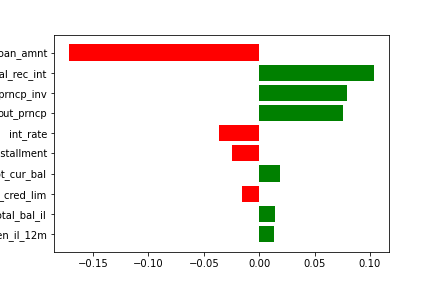
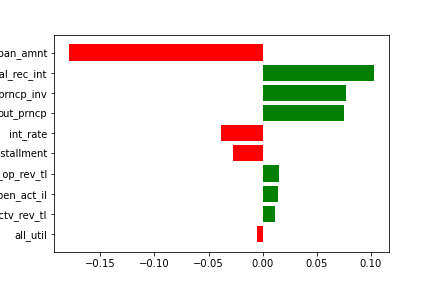
updated evaluation

diff --git a/auto_ml_validation/validation_package/evaluation/transparency_metrics_evaluator.py b/auto_ml_validation/validation_package/evaluation/transparency_metrics_evaluator.py
@@ -3,10 +3,10 @@ import matplotlib.pyplot as plt
 import shap
 from lime import submodular_pick
 from lime.lime_tabular import LimeTabularExplainer
-import pandas as pd
+
 
 class TransparencyMetricsEvaluator:
-    def __init__(self, model, X, y, class_name_list=None):
+    def __init__(self, model, X, class_name_list=None):
         """
         Initializes the TransparencyMetricsEvaluator object.
 
@@ -17,7 +17,6 @@ class TransparencyMetricsEvaluator:
         """
         self.model = model
         self.X = X
-        self.y = y
         self.class_name_list = class_name_list
         
         # Initialize the LIME explainer
@@ -43,16 +42,18 @@ class TransparencyMetricsEvaluator:
         local_lime_fig = self.lime_explainer.explain_instance(self.X.iloc[i], predict_fn, num_features=10).as_pyplot_figure()
         local_lime_fig.gca().set_title('')
 
-        sp_obj = submodular_pick.SubmodularPick(self.lime_explainer, self.X.values, predict_fn, sample_size=3, num_features=10, num_exps_desired=1)
+        sp_obj = submodular_pick.SubmodularPick(self.lime_explainer, self.X.values, predict_fn, sample_size=5, num_features=10, num_exps_desired=1)
 
         global_lime_fig = sp_obj.sp_explanations[0].as_pyplot_figure(label=0)
         global_lime_fig.gca().set_title('')
 
         local_text = self.lime_explainer.explain_instance(self.X.iloc[i], predict_fn, num_features=len(self.X.columns))
 
-        global_text = submodular_pick.SubmodularPick(self.lime_explainer, self.X.values, predict_fn, sample_size=1, num_features=len(self.X.columns), num_exps_desired=1).sp_explanations[0]
-        global_res = [('{}: {:.4f}'.format(self.X.columns[feature], weight)) for feature, weight in global_text.as_map()[0]]
-        local_res = [('{} {:.4f}'.format(feature, weight)) for feature, weight in local_text.as_list()]
+        global_text = submodular_pick.SubmodularPick(self.lime_explainer, self.X.values, predict_fn, sample_size=5, num_features=len(self.X.columns), num_exps_desired=1).sp_explanations[0]
+        global_res = [(self.X.columns[feature], weight) for feature, weight in global_text.as_map()[0]]
+        
+        
+        local_res = [(feature, weight) for feature, weight in local_text.as_list()]
 
         return local_lime_fig, global_lime_fig, local_res,  global_res
 
@@ -79,8 +80,8 @@ class TransparencyMetricsEvaluator:
         global_impt_map = sorted(zip(global_feature_importance, feature_names), key=lambda x: abs(x[0]), reverse=True)
 
         # Round feature importance values and swap the order of the tuples
-        local_impt_map = [(label, round(num, 4)) for num, label in local_impt_map]
-        global_impt_map = [(label, round(num, 4)) for num, label in global_impt_map]
+        local_impt_map = [(label, num) for num, label in local_impt_map]
+        global_impt_map = [(label, num) for num, label in global_impt_map]
 
         # Generate local and global plots
         plt.figure()
@@ -89,31 +90,5 @@ class TransparencyMetricsEvaluator:
         plt.figure()
         shap.plots.bar(shap_values, show=False)
         global_plot = plt.gcf()
-
+        
         return local_plot, global_plot, local_impt_map, global_impt_map
-
-    def cal_gini(self):
-        """Calculate GINI index for class and attributes"""  
-        def _gini_impurity (value_counts):
-            n = value_counts.sum()
-            p_sum = 0
-            for key in value_counts.keys():
-                p_sum = p_sum  +  (value_counts[key] / n ) * (value_counts[key] / n ) 
-            gini = 1 - p_sum
-            return gini
-        
-        def _gini_attribute(attribute_name):
-            attribute_values = self.X[attribute_name].value_counts()
-            gini_A = 0 
-            for key in attribute_values.keys():
-                df_k = pd.DataFrame(self.y)[self.X[attribute_name] == key].value_counts()
-                n_k = attribute_values[key]
-                n = self.X.shape[0]
-                gini_A = gini_A + (( n_k / n) * _gini_impurity(df_k))
-            return gini_A
-        
-        result = {}
-        for key in (self.X).columns:
-            result[key] = _gini_attribute(key)
-        
-        return result

diff --git a/auto_ml_validation/validation_package/evaluation/statistical_metrics_evaluator.py b/auto_ml_validation/validation_package/evaluation/statistical_metrics_evaluator.py
@@ -3,6 +3,7 @@ import math
 import pandas as pd
 import numpy as np
 import scipy
+from sklearn.metrics import roc_auc_score
 
 
 class StatisticalMetricsEvaluator:
@@ -102,8 +103,60 @@ class StatisticalMetricsEvaluator:
             df_list.append(df)
         return df_list, csi_dict
 
-    def kstest(
-        self,
-        score_col_name: str
-    ) -> float:
-        return scipy.stats.ks_2samp(self.train_processed_X[score_col_name], self.test_processed_X[score_col_name])
+    def kstest(self) -> Dict[str, float]:
+        train_pos = []
+        train_neg = []
+        for i in range(0, len(self.train_y)):
+            if self.train_y[i] == 0:
+                train_neg.append(self.train_proba[i])
+            else: 
+                train_pos.append(self.train_proba[i])
+
+        test_pos = []
+        test_neg = []
+        for i in range(0, len(self.test_y)):
+            if self.test_y[i] == 0:
+                test_neg.append(self.train_proba[i])
+            else: 
+                test_pos.append(self.train_proba[i])
+        
+        output_dict = {'Train' : scipy.stats.ks_2samp(train_pos, test_pos).statistic,
+                       'Test' :  scipy.stats.ks_2samp(test_pos, test_neg).statistic,
+                       'Train vs Test' : scipy.stats.ks_2samp(self.train_proba, 
+                                                       self.test_proba).statistic}
+        return output_dict
+    
+    def cal_normalized_gini(self):
+        """Simple normalized Gini based on Scikit-Learn's roc_auc_score""" 
+        gini = lambda a, p: 2 * roc_auc_score(a, p) - 1
+        return gini(self.test_y, self.test_proba) / gini(self.test_y, self.test_y)
+
+    
+    def cal_feature_gini(self):
+        """Calculate GINI index for attributes"""  
+        X = self.train_raw_X.iloc[0:100,:] # for testing
+        y = self.train_y[0:100] # for testing
+
+        def _gini_impurity (value_counts):
+            n = value_counts.sum()
+            p_sum = 0
+            for key in value_counts.keys():
+                p_sum = p_sum  +  (value_counts[key] / n ) * (value_counts[key] / n ) 
+            gini = 1 - p_sum
+            return gini
+        
+        def _gini_attribute(attribute_name):
+            attribute_values = X[attribute_name].value_counts()
+            gini_A = 0 
+            for key in attribute_values.keys():
+                df_k = pd.DataFrame(y)[X[attribute_name] == key].value_counts()
+                n_k = attribute_values[key]
+                n = X.shape[0]
+                gini_A = gini_A + (( n_k / n) * _gini_impurity(df_k))
+            return gini_A
+        
+        result = {}
+        for key in (X).columns:
+            result[key] = _gini_attribute(key)
+        
+        return result

diff --git a/auto_ml_validation/validation_package/evaluation_pipeline.py b/auto_ml_validation/validation_package/evaluation_pipeline.py
@@ -12,12 +12,7 @@ def evaluation_pipeline(
     train: Dict[str, Union[pd.DataFrame, np.ndarray]],
     test: Dict[str, Union[pd.DataFrame, np.ndarray]],
     threshold: float,
-    algo: str,
-    params: Dict[str, any],
-    cat_val_name: List[str], 
-    cat_val_value: Dict[str, List[str]],
-    selected_features: List[str],
-    num_of_bins: int = 10
+    selected_features: List[str]
 ):
     """
     Takes in model, data and parameters and generate one dictionary of numerical results and one dictionary for graphical results
@@ -39,28 +34,25 @@ def evaluation_pipeline(
     sme = StatisticalMetricsEvaluator(train, test)
     psi, psi_df = sme.calculate_psi()
     csi_list, csi_dict = sme.csi_for_all_features(selected_features)
-    ks = {k: sme.kstest(k) for k in selected_features}
+    ks = sme.kstest()
+    feature_gini = sme.cal_feature_gini()
+    dataset_gini = sme.cal_normalized_gini()
     print("Statistical metrics evaluation done!")
-
-    # fairness
-
 
     # transparency
     print("Evaluating transparency metrics...")
-    tme = TransparencyMetricsEvaluator(model, train['processed_X'].iloc[0:2500, :], train['y'].iloc[0:2500, :])  # for testing
+    tme = TransparencyMetricsEvaluator(model, train['processed_X'].iloc[0:250, :])  # for testing
     local_lime_fig, global_lime_fig, local_lime_lst, global_lime_map = tme.lime_interpretability()
     local_shap_fig, global_shap_fig, local_impt_map, global_impt_map = tme.shap_interpretability()
-    gini = tme.cal_gini()
+
     print("Transparency metrics evaluation done!")
 
     return {
             "dist": dist, "lift": lift, "pr": pr, "roc": roc, "confusion": confusion,
             "local_lime": local_lime_fig, "global_lime": global_lime_fig, "local_shap": local_shap_fig, "global_shap": global_shap_fig, 
         }, {
-            "metrics": metrics, "gini": gini, "auc": auc, 
+            "metrics": metrics, "feature_gini": feature_gini, "auc": auc, "dataset_gini": dataset_gini, 
             "local_lime": local_lime_lst, "global_lime": global_lime_map, "local_shap": local_impt_map, "global_shap": global_impt_map,
             "psi": psi, "psi_df": psi_df, 
             "csi_list": csi_list, "csi_dict": csi_dict, "ks": ks
         }
-
-

diff --git a/auto_ml_validation/validation_package/evaluation/performance_metrics_evaluator.py b/auto_ml_validation/validation_package/evaluation/performance_metrics_evaluator.py
@@ -51,7 +51,7 @@ class PerformanceEvaluator:
         }
 
     def get_roc_curve(self):
-        fpr, tpr, thresholds = skl.roc_curve(self.y_true, self.positive_proba)
+        fpr, tpr, thres = skl.roc_curve(self.y_true, self.positive_proba)
         fig = px.area(
             x=fpr, y=tpr,
             title='ROC Curve',
@@ -80,7 +80,7 @@ class PerformanceEvaluator:
             "ROCAUC": skl.roc_auc_score(self.y_true, self.positive_proba),
             "PRAUC": skl.auc(recall, precision)
         }
-
+    
     def get_lift_chart(self):
         return skp.metrics.plot_lift_curve(self.y_true, self.proba)
 
